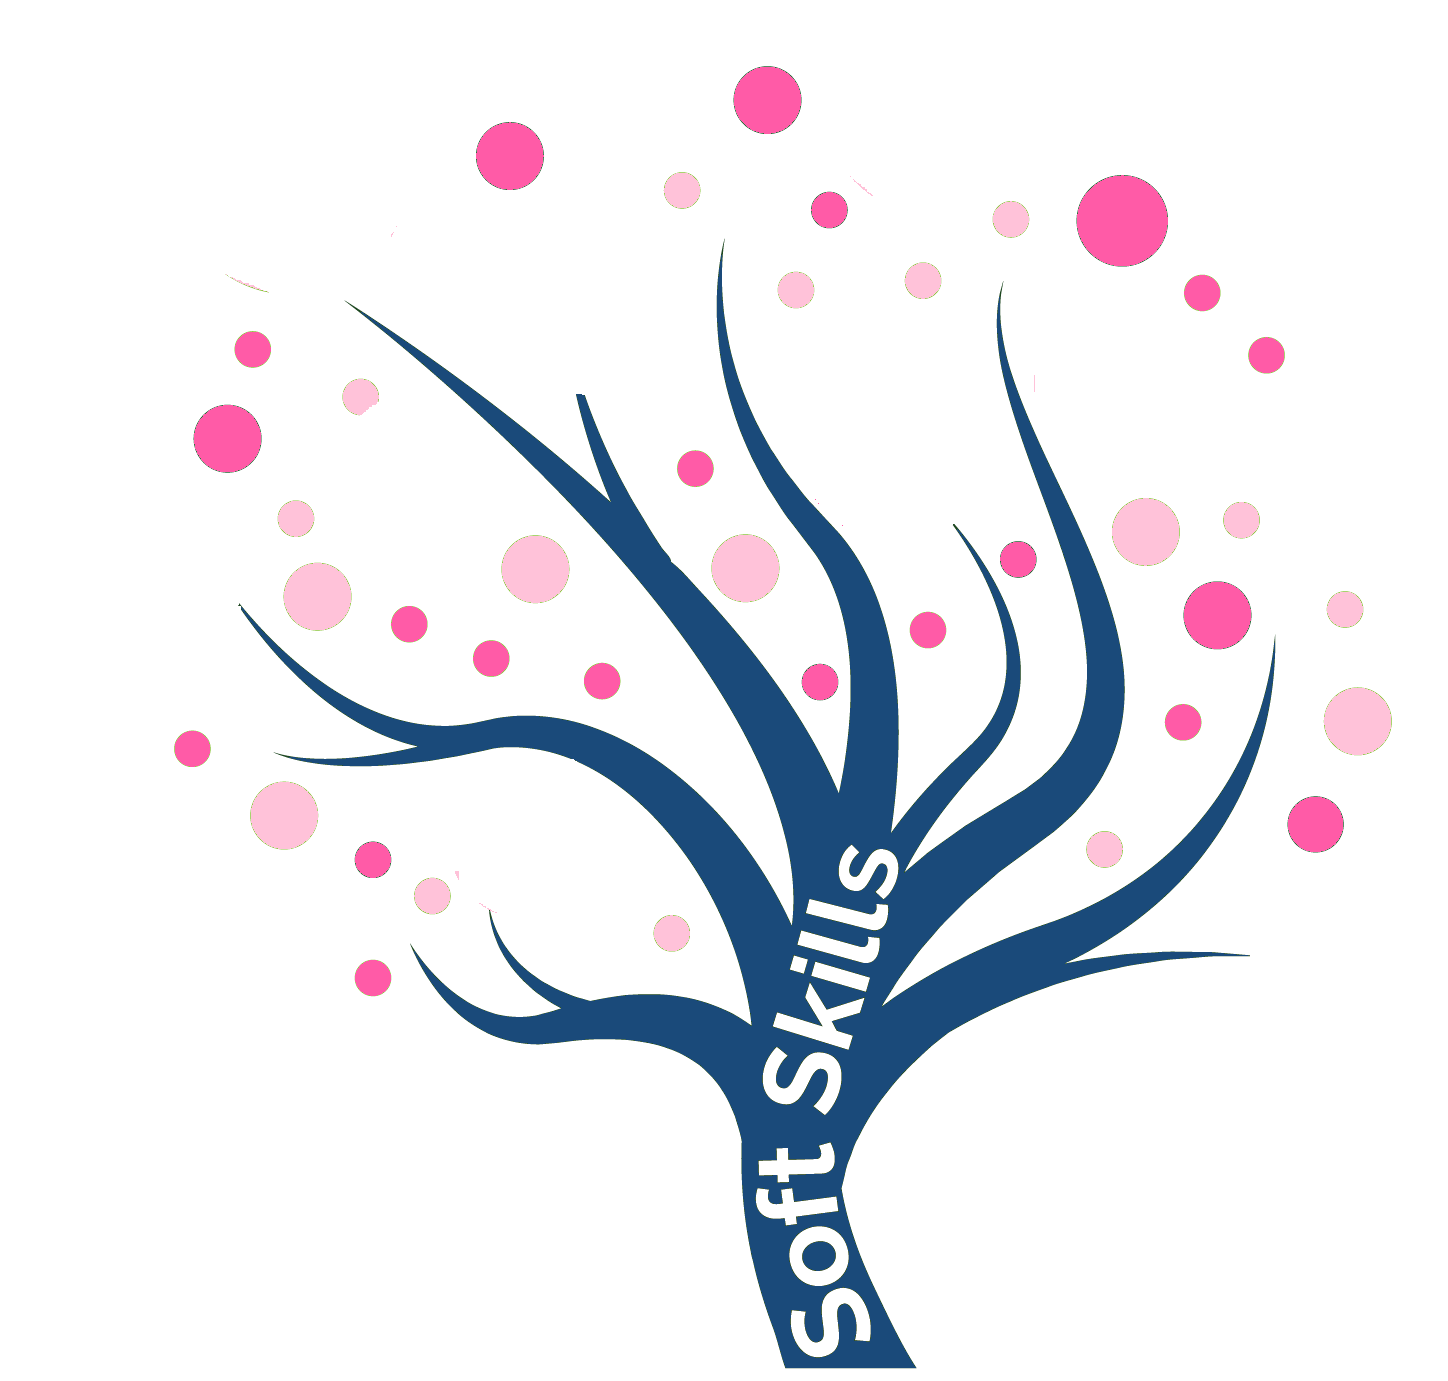
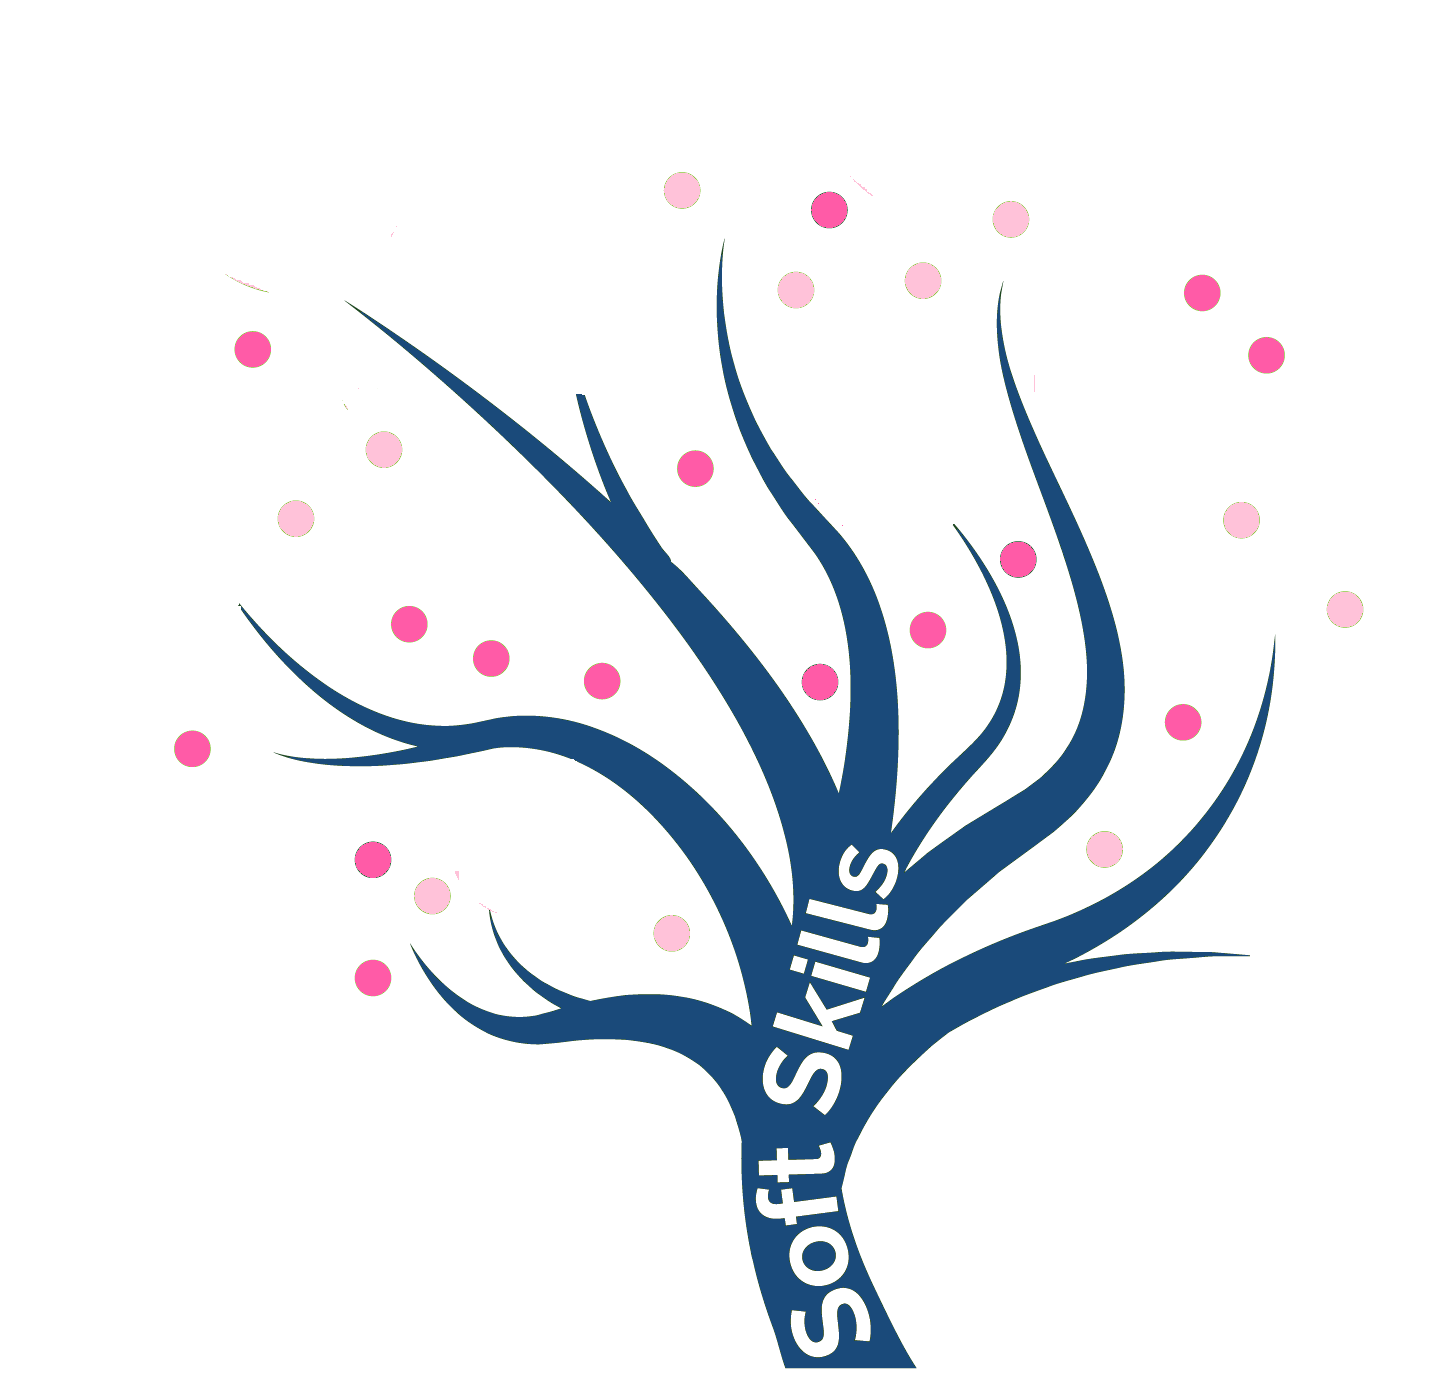
add trees animation

diff --git a/styles/layouts/softSkills.css b/styles/layouts/softSkills.css
@@ -8,11 +8,10 @@
 
 .softSkills__img-wrapper {
     position: relative;
-    border: 2px solid var(--default-bg-color);
     width: fit-content;
 }
 
-.softSkills__list {
+.softSkills__list, .softSkills__decorList {
     position: absolute;
     top: 0;
     left: 0;
@@ -21,6 +20,7 @@
     /*z-index: 1;*/
 
 }
+
 
 .softSkills__item {
     text-align: center;
@@ -34,6 +34,13 @@
 
 }
 
+.softSkills__item:nth-child(2n+1) {
+    animation: pulse 2s linear 1s infinite;
+}
+
+.softSkills__item:nth-child(2n) {
+    animation: pulse 2s linear 2s infinite;
+}
 
 .softSkills__item--agile {
     background-color: var(--active-bg-color);
@@ -144,4 +151,119 @@
     top: 385px;
     left: 225px;
     font-size: 12px;
+}
+
+
+.decorList__item--big {
+    width: 40px;
+    height: 40px;
+    border-radius: 100%;
+    filter: blur(2px);
+    opacity: 0.8;
+    animation: pulse 2s infinite;
+
+}
+
+.decorList__item--big:nth-child(1) {
+    position: absolute;
+    top: 390px;
+    left: 130px;
+    background-color: var(--default-bg-color);
+}
+
+.decorList__item--big:nth-child(2) {
+    position: absolute;
+    top: 200px;
+    left: 100px;
+    background-color: var(--active-bg-color);
+}
+
+.decorList__item--big:nth-child(3) {
+    position: absolute;
+    top: 30px;
+    left: 370px;
+    background-color: var(--default-bg-color);
+}
+
+.decorList__item--big:nth-child(4) {
+    position: absolute;
+    top: 90px;
+    left: 550px;
+    background-color: var(--active-bg-color);
+    width: 45px;
+    height: 45px;
+}
+
+.decorList__item--big:nth-child(5) {
+    position: absolute;
+    top: 65px;
+    left: 240px;
+    background-color: var(--active-bg-color);
+}
+
+
+.decorList__item--big:nth-child(6) {
+    position: absolute;
+    top: 285px;
+    left: 145px;
+    background-color: var(--default-bg-color);
+    width: 35px;
+    height: 35px;
+}
+
+
+.decorList__item--big:nth-child(7) {
+    position: absolute;
+    top: 270px;
+    left: 255px;
+    background-color: var(--default-bg-color);
+    width: 35px;
+    height: 35px;
+}
+
+.decorList__item--big:nth-child(8) {
+    position: absolute;
+    top: 270px;
+    left: 360px;
+    background-color: var(--default-bg-color);
+    width: 35px;
+    height: 35px;
+}
+
+
+.decorList__item--big:nth-child(9) {
+    position: absolute;
+    top: 250px;
+    left: 560px;
+    background-color: var(--default-bg-color);
+    width: 35px;
+    height: 35px;
+}
+
+.decorList__item--big:nth-child(10) {
+    position: absolute;
+    top: 290px;
+    left: 600px;
+    background-color: var(--active-bg-color);
+    width: 35px;
+    height: 35px;
+}
+
+.decorList__item--big:nth-child(11) {
+    position: absolute;
+    top: 350px;
+    left: 670px;
+    background-color: var(--default-bg-color);
+    width: 35px;
+    height: 35px;
+}
+
+
+.decorList__item--big:nth-child(12) {
+    position: absolute;
+    top: 400px;
+    left: 650px;
+    background-color: var(--active-bg-color);
+    width: 30px;
+    height: 30px;
 }

diff --git a/partials/softSkills.html b/partials/softSkills.html
@@ -40,6 +40,20 @@
                     Focus & Concentration
                 </li>
             </ul>
+            <div class="softSkills__decorList">
+                <div class="decorList__item decorList__item--big"></div>
+                <div class="decorList__item decorList__item--big"></div>
+                <div class="decorList__item decorList__item--big"></div>
+                <div class="decorList__item decorList__item--big"></div>
+                <div class="decorList__item decorList__item--big"></div>
+                <div class="decorList__item decorList__item--big"></div>
+                <div class="decorList__item decorList__item--big"></div>
+                <div class="decorList__item decorList__item--big"></div>
+                <div class="decorList__item decorList__item--big"></div>
+                <div class="decorList__item decorList__item--big"></div>
+                <div class="decorList__item decorList__item--big"></div>
+                <div class="decorList__item decorList__item--big"></div>
+            </div>
         </div>
 
     </div>
